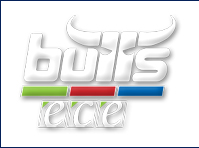
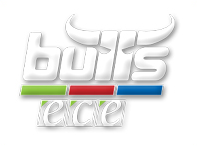
remove unncessary border from within partner images

diff --git a/content/partner.md b/content/partner.md
@@ -6,7 +6,7 @@ title: Partner
 <div class="columns is-multiline" style="display: flex">
 {% for image in site.data.partner %}
 <div class="column is-2-widescreen is-2-desktop is-3-tablet is-4-mobile">
-  <div class="card">
+  <div class="card" style="border: 1px solid #ededed">
     <a href="{{image.link}}" target="_blank">
       <img src="{{image.url}}" />
     </a>

diff --git a/content/index.md b/content/index.md
@@ -7,7 +7,7 @@ title: Basket Bears Krefeld
 
 #### Trainingszeiten
 
-<div style="max-width: 450px" markdown="1">
+<div style="max-width: 450px; white-space: nowrap" markdown="1">
 
 |            | Jugend        | 1. Mannschaft |
 | ---------- | ------------- | ------------- |
